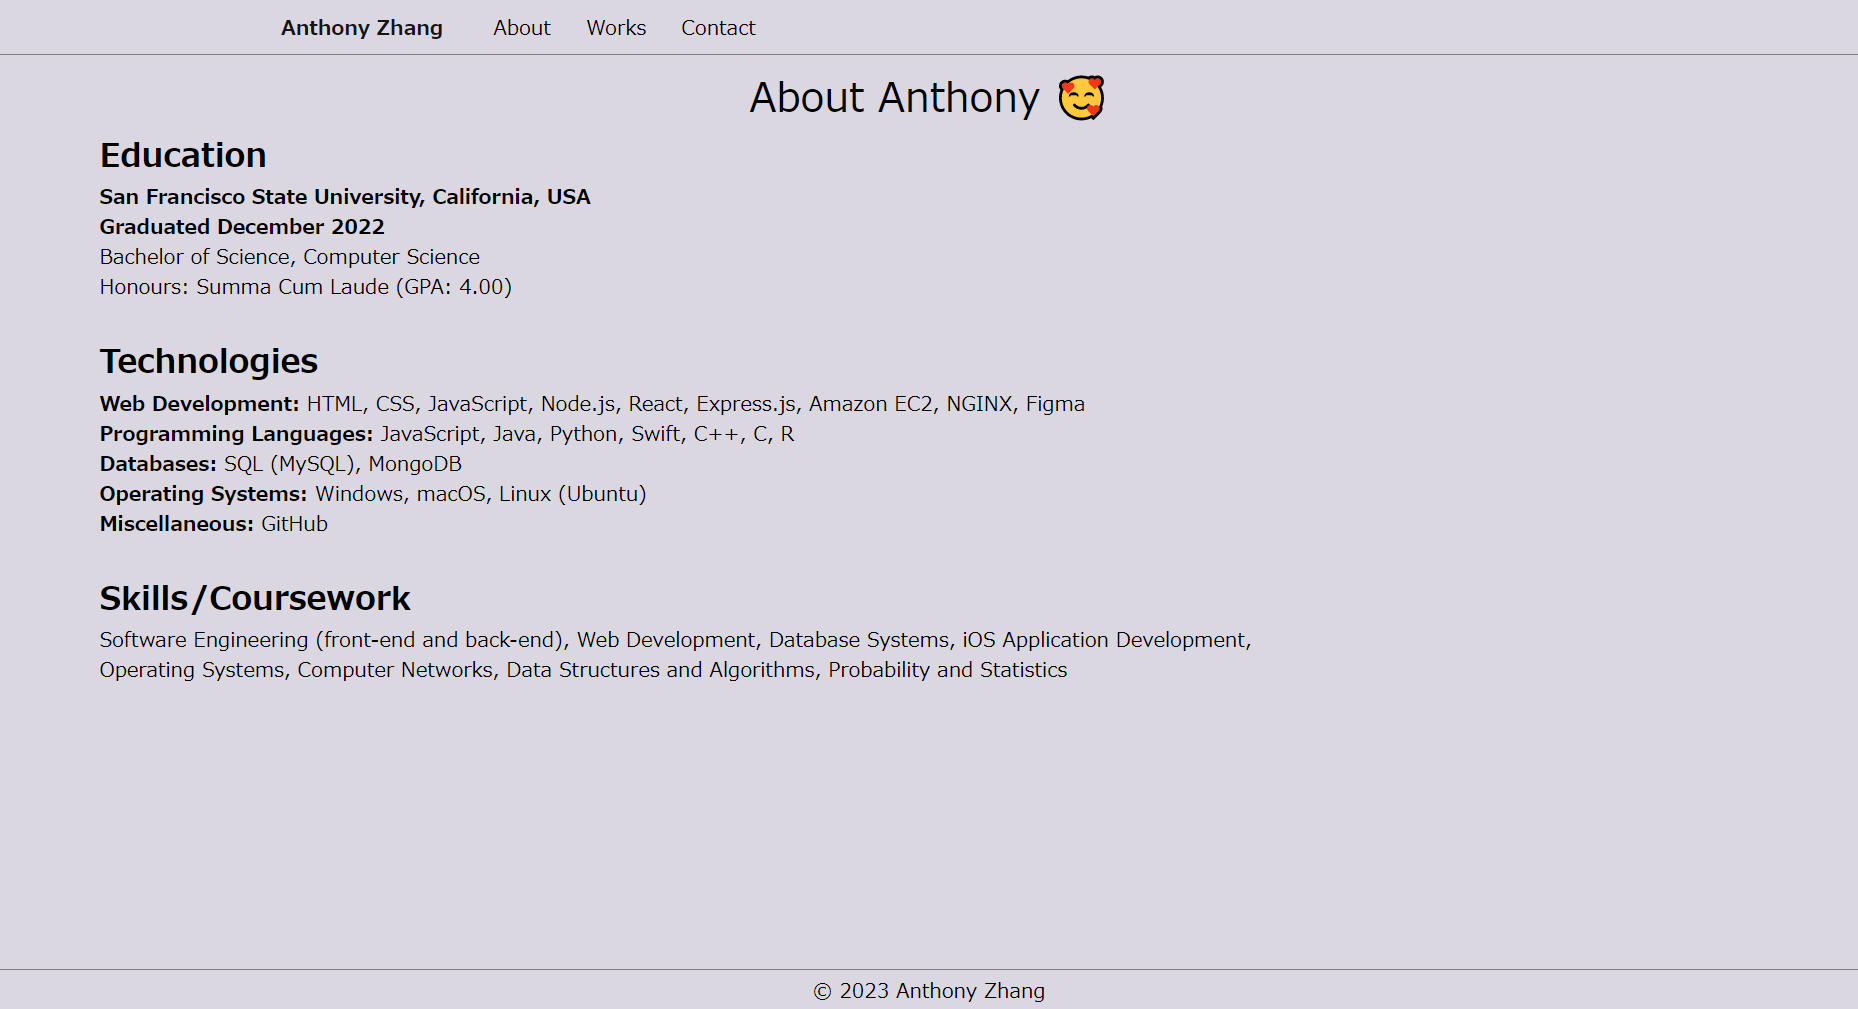
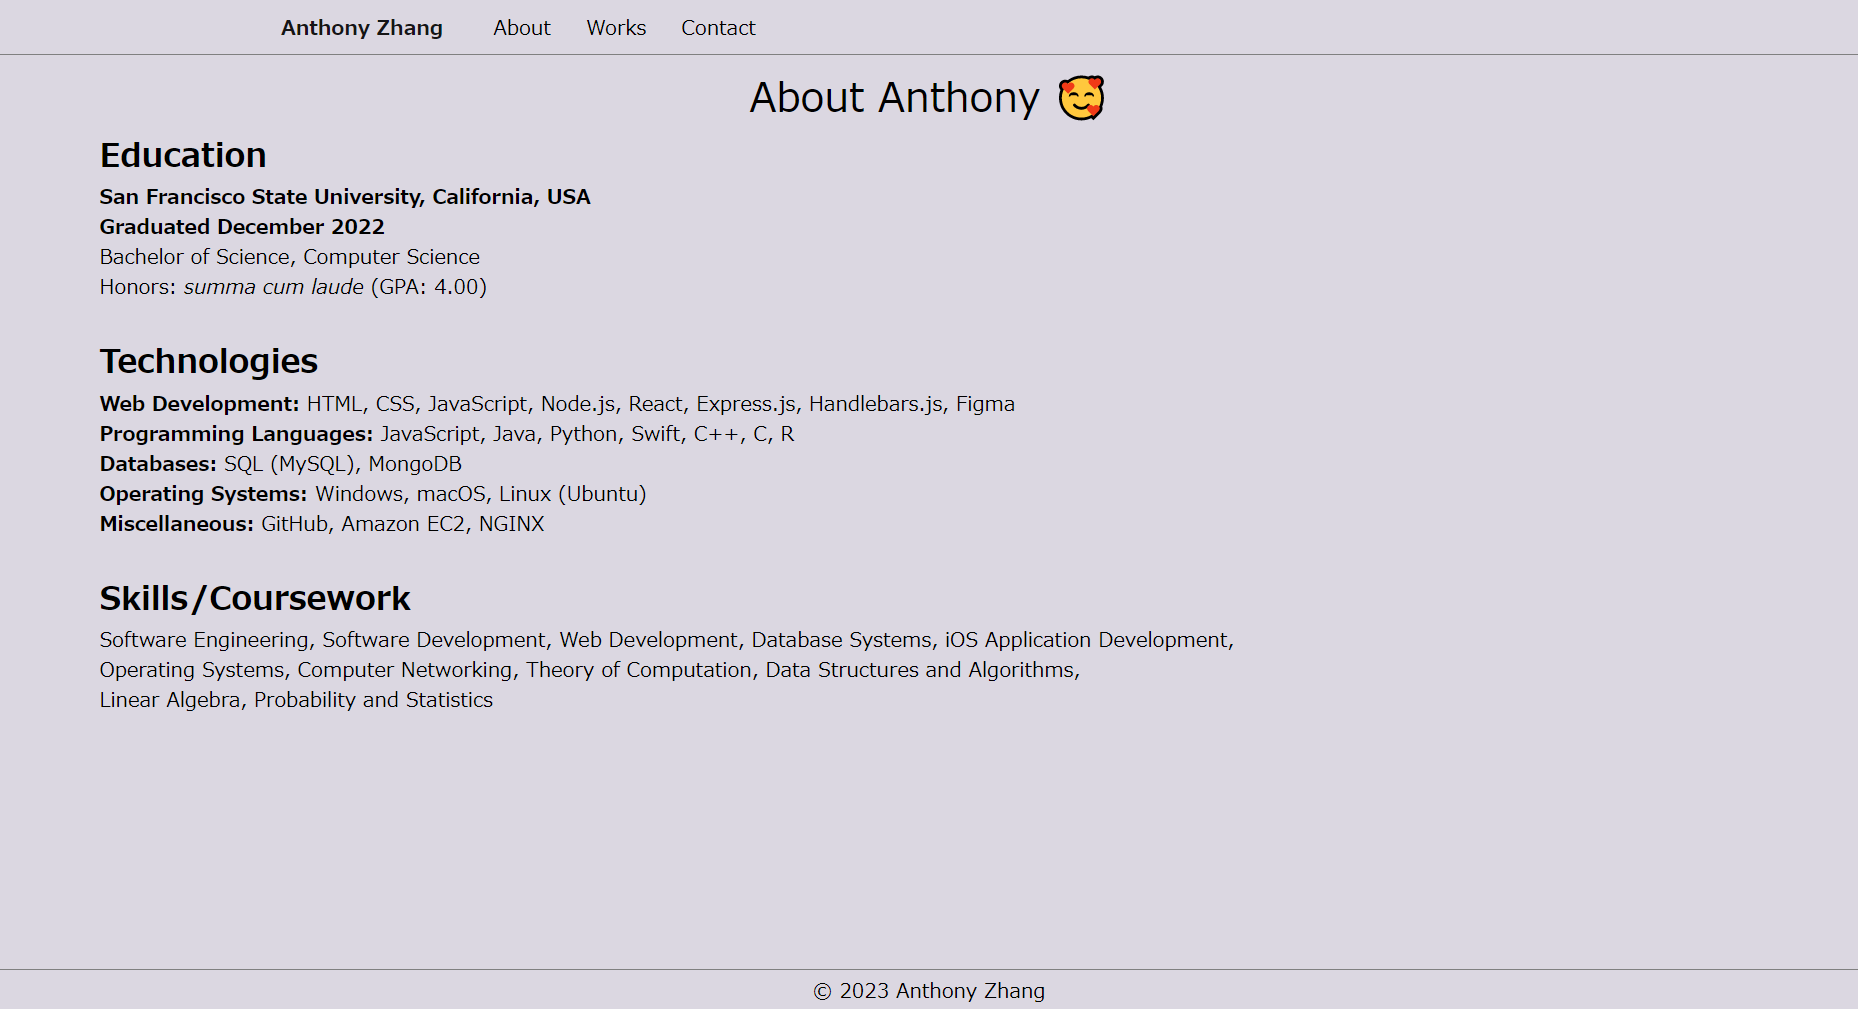
Updated About page with new coursework and reorganized technologies. Replaced <strong> with <b>. Fixed capitalization of Latin honors as that is not supposed to be capitalized.

diff --git a/src/pages/About.js b/src/pages/About.js
@@ -7,27 +7,28 @@ export default function About() {
       {/* Education Section */}
       <h2 className='left-indent section-title'>Education</h2>
       <p className='left-indent section-body'>
-        <strong>San Francisco State University, California, USA</strong> <br />
-        <strong>Graduated December 2022</strong> <br />
+        <b>San Francisco State University, California, USA</b> <br />
+        <b>Graduated December 2022</b> <br />
         Bachelor of Science, Computer Science <br />
-        Honours: Summa Cum Laude (GPA: 4.00)
+        Honors: <i>summa cum laude</i> (GPA: 4.00)
       </p>
 
       {/* Technologies Section */}
       <h2 className='left-indent section-title'>Technologies</h2>
       <p className='left-indent section-body'>
-        <strong>Web Development:</strong> HTML, CSS, JavaScript, Node.js, React, Express.js, Amazon EC2, NGINX, Figma <br />
-        <strong>Programming Languages:</strong> JavaScript, Java, Python, Swift, C++, C, R <br />
-        <strong>Databases:</strong> SQL (MySQL), MongoDB <br />
-        <strong>Operating Systems:</strong> Windows, macOS, Linux (Ubuntu) <br />
-        <strong>Miscellaneous:</strong> GitHub
+        <b>Web Development:</b> HTML, CSS, JavaScript, Node.js, React, Express.js, Handlebars.js, Figma <br />
+        <b>Programming Languages:</b> JavaScript, Java, Python, Swift, C++, C, R <br />
+        <b>Databases:</b> SQL (MySQL), MongoDB <br />
+        <b>Operating Systems:</b> Windows, macOS, Linux (Ubuntu) <br />
+        <b>Miscellaneous:</b> GitHub, Amazon EC2, NGINX
       </p>
 
       {/* Skills/Coursework Section */}
       <h2 className='left-indent section-title'>Skills/Coursework</h2>
       <p className='left-indent section-body'>
-        Software Engineering (front-end and back-end), Web Development, Database Systems, iOS Application Development, <br />
-        Operating Systems, Computer Networks, Data Structures and Algorithms, Probability and Statistics
+        Software Engineering, Software Development, Web Development, Database Systems, iOS Application Development, <br />
+        Operating Systems, Computer Networking, Theory of Computation, Data Structures and Algorithms, <br />
+        Linear Algebra, Probability and Statistics
       </p>
     </div>
   );

diff --git a/src/pages/works/CFileSystem.js b/src/pages/works/CFileSystem.js
@@ -33,14 +33,13 @@ export default function CFileSystem() {
         where I worked on the project with 3 other students. <br /><br />
 
         The following Linux commands are supported:&nbsp;<wbr />
-        <strong>cd</strong>, <strong>cp</strong>, <strong>exit</strong>, <strong>history</strong>,&nbsp;<wbr />
-        <strong>ls</strong>, <strong>mv</strong>, <strong>pwd</strong>, <strong>rm</strong>. <br /><br />
+        <b>cd</b>, <b>cp</b>, <b>exit</b>, <b>history</b>, <b>ls</b>, <b>mv</b>, <b>pwd</b>, <b>rm</b>. <br /><br />
 
         Other supported commands: <br />
-        <strong>cp2l</strong> - Copies a file from the C file system to the Linux file system. <br />
-        <strong>cp2fs</strong> - Copies a file from the Linux file system to the C file system. <br />
-        <strong>help</strong> - Prints out a list of supported commands. <br />
-        <strong>md</strong> - Makes a new directory. This is the same as Linux's <strong>mkdir</strong> command.
+        <b>cp2l</b> - Copies a file from the C file system to the Linux file system. <br />
+        <b>cp2fs</b> - Copies a file from the Linux file system to the C file system. <br />
+        <b>help</b> - Prints out a list of supported commands. <br />
+        <b>md</b> - Makes a new directory. This is the same as Linux's <b>mkdir</b> command.
       </p>
 
       {/* Images */}
@@ -102,7 +101,7 @@ export default function CFileSystem() {
         imagePath='/images/works/c-file-system/remove.png'
       />
 
-      <p className='page-last-updated'>Page Last Updated: March 04, 2023</p>
+      <p className='page-last-updated'>Page Last Updated: March 05, 2023</p>
     </div>
   );
 }

diff --git a/src/pages/works/Gatormmunity.js b/src/pages/works/Gatormmunity.js
@@ -40,8 +40,8 @@ export default function Gatormmunity() {
         so Gatormmunity is safer than anonymous marketplace websites like Craigslist. <br /><br />
 
         I encourage you to explore the website by logging in with this account: <br />
-        SFSU ID Number: <strong>123123123</strong> <br />
-        Password: <strong>github</strong>
+        SFSU ID Number: <b>123123123</b> <br />
+        Password: <b>github</b>
       </p>
 
       {/* Additional Information */}
@@ -133,7 +133,7 @@ export default function Gatormmunity() {
         imagePath='/images/works/gatormmunity/search.png'
       />
 
-      <p className='page-last-updated'>Page Last Updated: March 04, 2023</p>
+      <p className='page-last-updated'>Page Last Updated: March 05, 2023</p>
     </div>
   );
 }

diff --git a/src/pages/works/AnthonyZhangWebsite.js b/src/pages/works/AnthonyZhangWebsite.js
@@ -81,7 +81,7 @@ export default function AnthonyZhangWebsite() {
         imagePath='/images/works/anthony-zhang-website/work.png'
       />
 
-      <p className='page-last-updated'>Page Last Updated: March 04, 2023</p>
+      <p className='page-last-updated'>Page Last Updated: March 05, 2023</p>
     </div>
   );
 }
